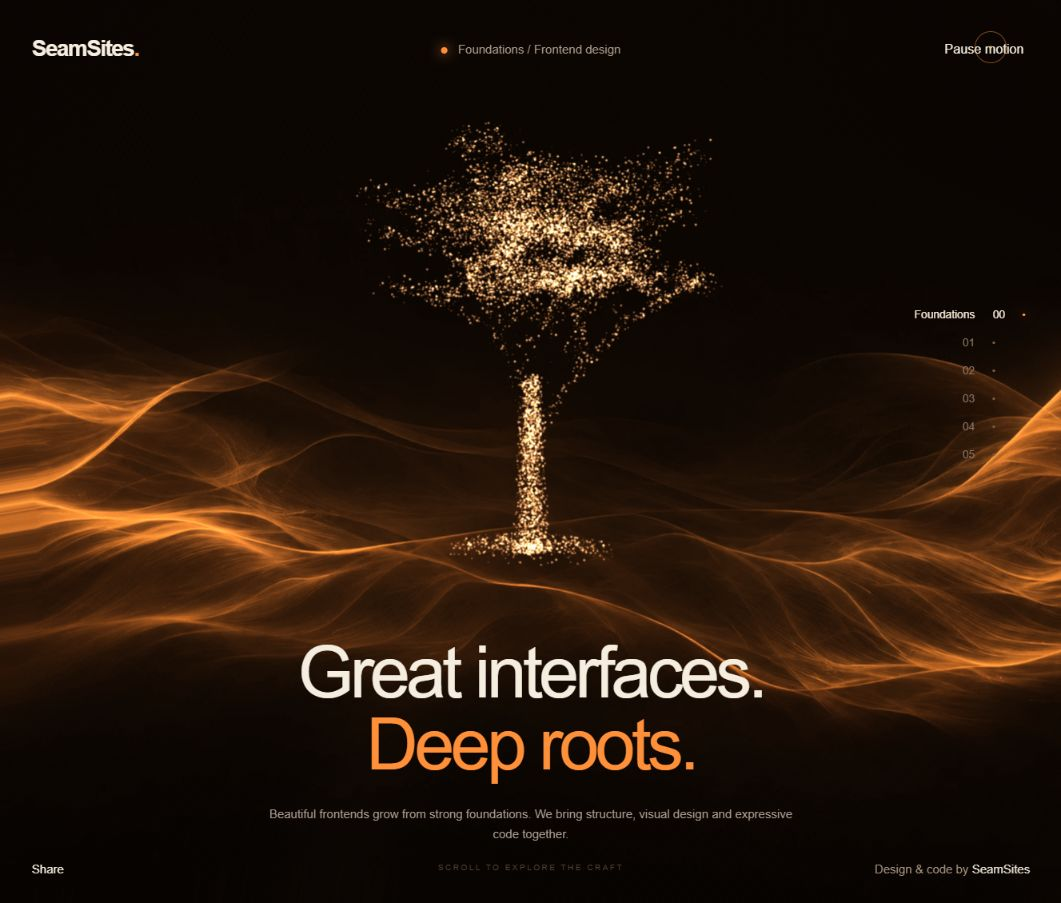
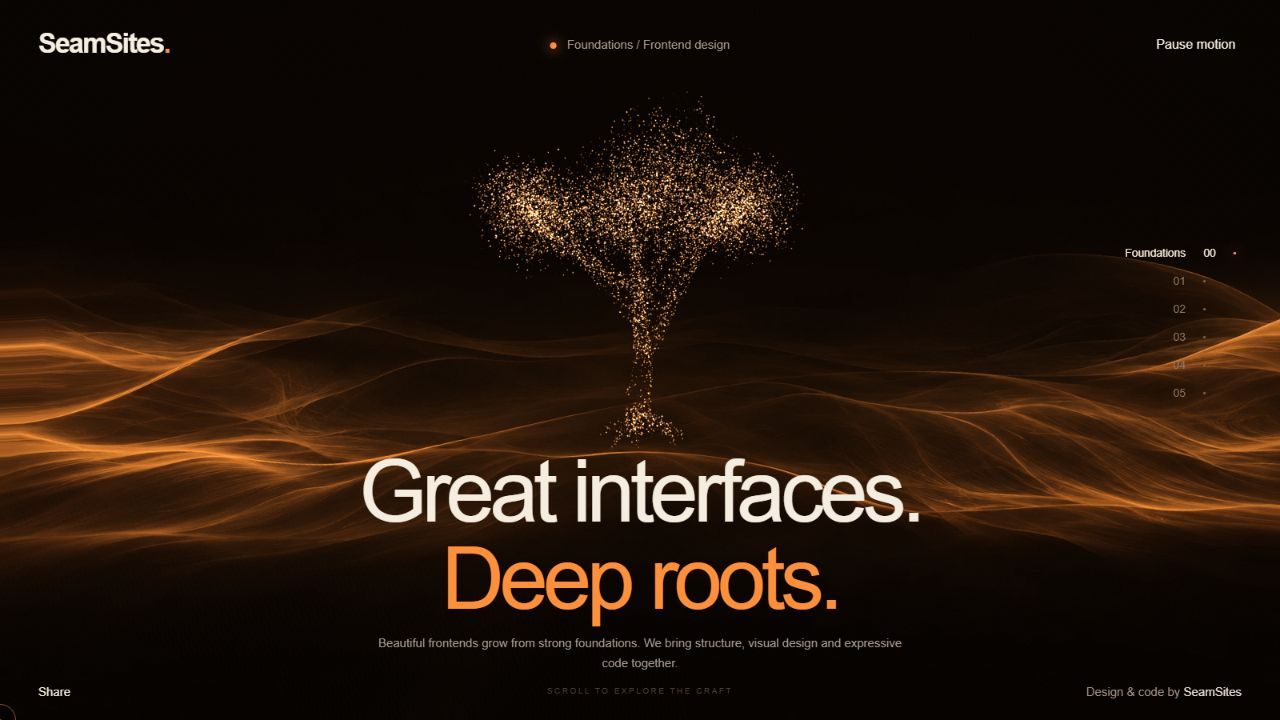
Refine branching oak silhouette and replace rocket with ringed planet

diff --git a/designs/seamsites-motion/index.html b/designs/seamsites-motion/index.html
@@ -2,8 +2,8 @@
 :root{--accent:#ff9f42}.brand{font-size:clamp(22px,2.1vw,33px);letter-spacing:-1.2px}.brand-dot{color:var(--accent)}h1,.intro h1,.ending h1{font-size:clamp(44px,6.8vw,118px);text-align:center;left:5%;right:5%;bottom:13.5%;line-height:1;letter-spacing:-.055em}h1 em{color:var(--accent)}.description,.intro .description{display:block;top:auto;left:50%;transform:translateX(-50%);bottom:6.5%;width:min(540px,75%);text-align:center;font-size:12px;line-height:1.65;color:#ab9d91;margin:0}.hint{bottom:3.5%;font-size:8px;opacity:.6}footer{bottom:3%}.status:before{background:var(--accent);box-shadow:0 0 12px var(--accent)}nav button.active i{color:var(--accent)}nav{top:34%;gap:12px}.replay{bottom:33%;right:5%;font-size:11px}.ending .replay{display:block}.cursor{border-color:var(--accent);opacity:.5}@media(max-width:700px){h1,.intro h1,.ending h1{font-size:clamp(33px,8.8vw,58px);bottom:20%;left:16px;right:16px;line-height:1.05}.description,.intro .description{bottom:10%;width:85%;font-size:11px;left:50%}.hint{display:none!important}.status{font-size:10px}.brand{font-size:25px}.replay{bottom:34%;right:20px}nav{top:28%;gap:13px}nav span{max-width:60px}.ending .description{bottom:10%}}
 </style></head><body><canvas id="ribbons" aria-hidden="true"></canvas><canvas id="points" aria-hidden="true"></canvas><main class="ui intro" id="ui"><header><a class="brand" href="#" aria-label="SeamSites home">SeamSites<span class="brand-dot">.</span></a><span class="status" id="status">Scroll to sink in</span><button id="motion" aria-pressed="false">Pause motion</button></header><nav aria-label="Design chapters" id="nav"></nav><h1 id="title">Great interfaces.<br><em>Deep roots.</em></h1><p class="description" id="description">Beautiful frontends grow from strong foundations. We bring structure, visual design and expressive code together.</p><button class="replay" id="replay">Explore again ↻</button><span class="hint" id="hint">SCROLL TO EXPLORE THE CRAFT</span><footer><button id="share">Share</button><span>Design &amp; code by <strong>SeamSites</strong></span></footer><p id="message" role="status"></p></main><div class="cursor" id="cursor"></div><script src="assets/particle-shapes.js"></script><script>
 const $=s=>document.getElementById(s),calm=matchMedia('(prefers-reduced-motion: reduce)').matches;
-const labels=['Foundations','Craft','Motion','Systems','Flow','Launch'],titles=['Great interfaces.<br><em>Deep roots.</em>','Every detail.<br><em>Precisely crafted.</em>','Make interaction<br><em>feel alive.</em>','One system.<br><em>Infinite possibilities.</em>','Designed to flow.<br><em>Built to perform.</em>','From first pixel<br><em>to live.</em>'];
-const descriptions=['Beautiful frontends grow from strong foundations. We bring structure, visual design and expressive code together.','Considered typography. Purposeful spacing. Responsive components. Interfaces polished from every angle.','Fluid transitions and thoughtful feedback turn everyday actions into memorable experiences.','Reusable components and consistent design tokens create room to build, evolve and scale.','Smooth rendering, accessible controls and responsive layouts. Performance is part of the design.','From an early idea to a working experience. Design, build, test and launch with SeamSites.'];
+const labels=['Foundations','Craft','Motion','Systems','Flow','Horizons'],titles=['Great interfaces.<br><em>Deep roots.</em>','Every detail.<br><em>Precisely crafted.</em>','Make interaction<br><em>feel alive.</em>','One system.<br><em>Infinite possibilities.</em>','Designed to flow.<br><em>Built to perform.</em>','New horizons.<br><em>Built for the web.</em>'];
+const descriptions=['Beautiful frontends grow from strong foundations. We bring structure, visual design and expressive code together.','Considered typography. Purposeful spacing. Responsive components. Interfaces polished from every angle.','Fluid transitions and thoughtful feedback turn everyday actions into memorable experiences.','Reusable components and consistent design tokens create room to build, evolve and scale.','Smooth rendering, accessible controls and responsive layouts. Performance is part of the design.','Explore new possibilities through expressive interfaces, spatial design and thoughtful frontend engineering.'];
 const tones=[[1.,.56,.22],[.28,.80,1.],[1.,.42,.71],[.48,.56,1.],[.30,1.,.72],[1.,.48,.22]];
 let state=0,old=0,start=-9999,changing=false,queued=null,lastWheel=0,clock=0,mx=0,my=0,paused=calm;
 labels.forEach((s,i)=>{$('nav').insertAdjacentHTML('beforeend',`<button aria-label="${s}" aria-pressed="${i===0}" data-n="${i}" class="${i===0?'active':''}"><span>${i===0?s:''}</span><b>0${i}</b><i>•</i></button>`)});
@@ -32,7 +32,7 @@ if(n===4){let rad=(v>0?.55-(v*.25):.55*(1+v));x=Math.cos(u)*rad*r;y=v*.7;z=Math.
 if(n===5){x=Math.cos(u)*Math.sqrt(1-v*v)*(.5+rand()*.22);y=v*.75;z=Math.sin(u)*Math.sqrt(1-v*v)*.5}return[x,y,z]}
 for(let n=0;n<6;n++){let a=new Float32Array(count*3);for(let i=0;i<count;i++)a.set(shape(n,i),i*3);sets.push(window.SAFFRON_SHAPES?Float32Array.from(window.SAFFRON_SHAPES[n]):a)}for(let i=0;i<count;i++)seeds[i]=rand();let buffers=[];
 if(pg){pr=program(pg,`#version 300 es
-precision highp float;in vec3 A,B;in float Q;uniform float T,K,D,S,I;uniform vec3 H;uniform vec2 M;out float V;out vec3 C;void main(){float k=K*K*(3.-2.*K);vec3 p=mix(A,B,k);float burst=sin(K*3.14159);p+=vec3(sin(Q*120.),cos(Q*250.),sin(Q*415.))*burst*.7;p.x+=sin(T*.7+Q*50.)*.015;p.y+=cos(T*.6+Q*40.)*.015;if(I>1.5&&I<2.5){p.z+=abs(p.x)*sin(T*4.)*.4;p.x*=.83+.17*cos(T*4.);}float rot=(I<.5?T*.22:sin(T*.22)*.38)+M.x*.18;mat2 m=mat2(cos(rot),-sin(rot),sin(rot),cos(rot));p.xz=m*p.xz;p*=min(1.,D/.95);float dep=1.6+p.z*.35;p.xy*=1.-burst*.12;vec2 pos=p.xy/dep;pos.x/=D;pos.y+=.25;gl_Position=vec4(pos,0,1);gl_PointSize=(1.3+Q*2.8)*S;V=.3+Q*.7;C=mix(H*.46,mix(H,vec3(1.),.35),pow(Q,2.));}`,`#version 300 es
+precision highp float;in vec3 A,B;in float Q;uniform float T,K,D,S,I;uniform vec3 H;uniform vec2 M;out float V;out vec3 C;void main(){float k=K*K*(3.-2.*K);vec3 p=mix(A,B,k);float burst=sin(K*3.14159);p+=vec3(sin(Q*120.),cos(Q*250.),sin(Q*415.))*burst*.7;p.x+=sin(T*.7+Q*50.)*.015;p.y+=cos(T*.6+Q*40.)*.015;if(I>1.5&&I<2.5){p.z+=abs(p.x)*sin(T*4.)*.4;p.x*=.83+.17*cos(T*4.);}float rot=(I<.5?T*.22:I>4.5?sin(T*.18)*.18:sin(T*.22)*.38)+M.x*.18;mat2 m=mat2(cos(rot),-sin(rot),sin(rot),cos(rot));p.xz=m*p.xz;p*=min(1.,D/.95);float dep=1.6+p.z*.35;p.xy*=1.-burst*.12;vec2 pos=p.xy/dep;pos.x/=D;pos.y+=.25;gl_Position=vec4(pos,0,1);gl_PointSize=(1.3+Q*2.8)*S*(I<.5?.72:1.);V=.3+Q*.7;C=mix(H*.46,mix(H,vec3(1.),.35),pow(Q,2.));}`,`#version 300 es
 precision highp float;in float V;in vec3 C;out vec4 O;void main(){float r=length(gl_PointCoord-.5)*2.;if(r>1.)discard;float a=pow(1.-r,1.7)*V;O=vec4(C*a*1.5,a);}`);for(const u of['T','K','D','S','M','I','H'])pU[u]=pg.getUniformLocation(pr,u);for(let j=0;j<2;j++){let b=pg.createBuffer();buffers.push(b);pg.bindBuffer(pg.ARRAY_BUFFER,b);pg.bufferData(pg.ARRAY_BUFFER,sets[0],pg.DYNAMIC_DRAW);let l=pg.getAttribLocation(pr,j?'B':'A');pg.enableVertexAttribArray(l);pg.vertexAttribPointer(l,3,pg.FLOAT,false,0,0)}let b=pg.createBuffer();pg.bindBuffer(pg.ARRAY_BUFFER,b);pg.bufferData(pg.ARRAY_BUFFER,seeds,pg.STATIC_DRAW);let l=pg.getAttribLocation(pr,'Q');pg.enableVertexAttribArray(l);pg.vertexAttribPointer(l,1,pg.FLOAT,false,0,0);pg.enable(pg.BLEND);pg.blendFunc(pg.ONE,pg.ONE)}
 function resize(){let d=Math.min(devicePixelRatio,1.5);for(const [c,g]of[[back,gl],[front,pg]]){c.width=innerWidth*d;c.height=innerHeight*d;if(g)g.viewport(0,0,c.width,c.height)}}addEventListener('resize',resize);resize();let time=0,last=0,lastState=-1;
 function draw(now){if(!document.hidden&&!paused)time+=Math.min((now-(last||now))/1000,.05);last=now;let k=changing?Math.min(1,(now-start)/1100):1;if(changing&&k===1){changing=false;old=state;if(queued!==null){let q=queued;queued=null;if(q!==state)select(q)}}const blend=k*k*(3-2*k),tone=tones[old].map((v,i)=>v+(tones[state][i]-v)*blend);document.documentElement.style.setProperty('--accent','rgb('+tone.map(v=>Math.round(v*255)).join(',')+')');$('title').style.setProperty('--blur',Math.sin(k*Math.PI)*10+'px');$('title').style.setProperty('--opacity',1-Math.sin(k*Math.PI)*.8);

diff --git a/designs/seamsites-motion/assets/particle-shapes.js b/designs/seamsites-motion/assets/particle-shapes.js
@@ -1,14 +1,19 @@
 // SeamSites: six deterministic, genuinely spatial point clouds.
 (()=>{let seed=741;const random=()=>{seed=(Math.imul(seed,1664525)+1013904223)>>>0;return seed/4294967296},N=16000,TAU=Math.PI*2,clouds=[];
 const mix=(a,b,t)=>a+(b-a)*t,unit=()=>{let z=random()*2-1,a=random()*TAU,r=Math.sqrt(1-z*z);return[Math.cos(a)*r,z,Math.sin(a)*r]};
-// Tree branch skeleton: branching is three-dimensional, not a flat tree outline.
-let branches=[],tips=[];function branch(a,angle,yaw,len,radius,depth){let dir=[Math.sin(angle)*Math.cos(yaw),Math.cos(angle),Math.sin(angle)*Math.sin(yaw)],b=a.map((v,i)=>v+dir[i]*len);branches.push({a,b,r:radius,dir});if(depth===0){tips.push(b);return}let children=depth>3?3:2;for(let j=0;j<children;j++)branch(b,Math.min(1.35,angle*.45+.40+random()*.40),yaw+j*TAU/children+random()*.6,len*(.62+random()*.12),radius*.59,depth-1)}
-branches.push({a:[0,-.94,0],b:[0,-.18,0],r:.08,dir:[0,1,0]});for(let j=0;j<7;j++)branch([0,-.32+j*.075,0],.38+random()*.45,j*2.4,.42+random()*.16,.04,4);
+// Mature oak: curved tapering trunk, buttress roots, layered boughs and leaf clusters.
+let wood=[],leaves=[];const segment=(a,b,r0,r1)=>wood.push({a,b,r0,r1,w:Math.hypot(...b.map((v,j)=>v-a[j]))*(r0+r1)});
+function limb(a,b,r,depth){segment(a,b,r,r*.55);if(!depth){leaves.push({p:b,r:.16+random()*.065});return}let az=Math.atan2(b[2],b[0]);for(let j=0;j<3;j++){let angle=az+(j-1)*.7+(random()-.5)*.35,len=.17+depth*.025,c=[b[0]+Math.cos(angle)*len*.70,b[1]+len*(.35+random()*.55),b[2]+Math.sin(angle)*len*.70];limb(b,c,r*.52,depth-1)}}
+let trunk=[[0,-.76,0],[.025,-.59,-.008],[-.025,-.40,.015],[.015,-.22,0],[0,-.06,.015]];for(let j=0;j<4;j++)segment(trunk[j],trunk[j+1],.071-j*.011,.060-j*.011);
+for(let j=0;j<9;j++){let angle=j*2.39996,start=trunk[2+j%3],rr=.25+random()*.13,end=[Math.cos(angle)*rr,.04+random()*.16,Math.sin(angle)*rr];limb(start,end,.036,2)}
+limb(trunk[4],[.025,.34,.015],.023,2);
+for(let j=0;j<7;j++){let a=j*2.39996;segment([0,-.64,0],[Math.cos(a)*.22,-.77,Math.sin(a)*.22],.039,.005)}
+let totalWood=wood.reduce((a,b)=>a+b.w,0);
 for(let shape=0;shape<6;shape++){let a=new Float32Array(N*3);for(let i=0;i<N;i++){let x=0,y=0,z=0,u=random()*TAU,v=random(),r=random();
-if(shape===0){if(r<.15){let t=random(),rr=(.08-.04*t)*Math.sqrt(random());x=Math.cos(u)*rr;y=-.94+t*.95;z=Math.sin(u)*rr}else if(r<.55){let b=branches[Math.floor(Math.pow(random(),1.6)*branches.length)],t=random(),ang=random()*TAU,rad=b.r*(1-t*.4)*Math.sqrt(random());x=mix(b.a[0],b.b[0],t)+Math.cos(ang)*rad;y=mix(b.a[1],b.b[1],t)+Math.sin(ang)*rad*.3;z=mix(b.a[2],b.b[2],t)+Math.sin(ang)*rad}else if(r<.94){let b=tips[Math.floor(random()*tips.length)],d=unit(),s=Math.pow(random(),.6)*.13;x=b[0]+d[0]*s;y=b[1]+d[1]*s*.7;z=b[2]+d[2]*s}else{let ang=random()*TAU,t=random();x=Math.cos(ang)*t*.42;y=-.94+Math.sin(t*3)*.035;z=Math.sin(ang)*t*.35}x*=1.17;y=(y+.12)*1.05;z*=1.17}
+if(shape===0){if(r<.31){let pick=random()*totalWood,b=wood[0];for(let item of wood){pick-=item.w;if(pick<=0){b=item;break}}let t=random(),d=b.b.map((v,j)=>v-b.a[j]),len=Math.hypot(...d);d=d.map(v=>v/len);let n=Math.abs(d[1])<.9?[0,1,0]:[1,0,0],e=[d[1]*n[2]-d[2]*n[1],d[2]*n[0]-d[0]*n[2],d[0]*n[1]-d[1]*n[0]],el=Math.hypot(...e);e=e.map(v=>v/el);let f=[d[1]*e[2]-d[2]*e[1],d[2]*e[0]-d[0]*e[2],d[0]*e[1]-d[1]*e[0]],rr=mix(b.r0,b.r1,t)*(.8+.2*random());let p=b.a.map((v,j)=>mix(v,b.b[j],t)+rr*(Math.cos(u)*e[j]+Math.sin(u)*f[j]));[x,y,z]=p}else{let c=leaves[Math.floor(random()*leaves.length)],d=unit(),rr=c.r*Math.pow(random(),.45);x=c.p[0]+d[0]*rr;y=c.p[1]-.035+d[1]*rr*1.15;z=c.p[2]+d[2]*rr;let scallop=1+.035*Math.sin(u*11);x*=scallop;z*=scallop}x*=1.02;z*=1.02}
 if(shape===1){let theta=Math.floor(random()*8)*TAU/8,next=theta+TAU/8,t=random(),yy,rad;if(r<.25){yy=mix(.52,.29,v);rad=mix(.26,.53,v)}else if(r<.9){yy=mix(.29,-.65,v);rad=.53*(yy+.65)/.94}else{yy=.52;rad=.26*Math.sqrt(v)}if(i%5===0)t=0;x=mix(Math.cos(theta),Math.cos(next),t)*rad;y=yy+.03;z=mix(Math.sin(theta),Math.sin(next),t)*rad}
 if(shape===2){if(r<.1){x=(random()-.5)*.035;y=(random()-.5)*.86;z=(random()-.5)*.035}else if(r<.14){let side=i%2?1:-1;x=side*(.01+v*.12);y=.39+v*.2;z=0}else{let side=i%2?1:-1,upper=random()<.60,theta=random()*TAU,f=i%6===0?1:Math.sqrt(random());let cx=upper?.30:.24,cy=upper?.23:-.25,rx=upper?.28:.22,ry=upper?.36:.25;let xx=cx+Math.cos(theta)*rx*f,yy=cy+Math.sin(theta)*ry*f;x=side*(xx+(upper?.12:-.08)*(yy-cy));y=yy;z=Math.sin(theta*3)*.022*f;}}
 if(shape===3){let arm=Math.floor(random()*4),rad=Math.pow(random(),.65)*.86,theta=arm*TAU/4+rad*5.7+(random()-.5)*.5;x=Math.cos(theta)*rad;y=(random()-.5)*.06+Math.sin(rad*7)*.015;z=Math.sin(theta)*rad;if(r<.2){let d=unit(),rr=Math.pow(random(),1.7)*.22;x=d[0]*rr;y=d[1]*rr;z=d[2]*rr}let yy=y*Math.cos(.42)-z*Math.sin(.42);z=y*Math.sin(.42)+z*Math.cos(.42);y=yy+.1}
 if(shape===4){let t=u,b=v*TAU,rr=.075*Math.sqrt(random()),cx=(.55+.16*Math.cos(3*t))*Math.cos(2*t),cy=(.55+.16*Math.cos(3*t))*Math.sin(2*t),cz=.22*Math.sin(3*t);x=cx+Math.cos(b)*rr;y=cy+Math.sin(b)*rr;z=cz+(random()-.5)*.1}
-if(shape===5){let section=r;if(section<.6){y=mix(-.36,.70,v);let rr=.18*Math.sqrt(Math.max(0,1-Math.pow((y-.05)/.65,2)));x=Math.cos(u)*rr;z=Math.sin(u)*rr}else if(section<.82){let side=i%3,t=random(),rr=.18+t*.25,ang=side*TAU/3;x=Math.cos(ang)*rr;y=-.15-t*.37;z=Math.sin(ang)*rr}else{let rr=(.06+v*.11)*(1-v*.65);x=Math.cos(u)*rr;y=-.36-v*.55;z=Math.sin(u)*rr}x+=y*.14}
+if(shape===5){if(r<.64){let d=unit(),latitude=Math.asin(d[1]),bands=1+.018*Math.sin(latitude*25+Math.sin(u*3));x=d[0]*.40*bands;y=d[1]*.40;z=d[2]*.40*bands}else{let rr=r<.89?.56+v*.17:.77+v*.07;let xx=Math.cos(u)*rr,zz=Math.sin(u)*rr,yy=(random()-.5)*.008;x=xx;y=yy*Math.cos(.55)-zz*Math.sin(.55);z=yy*Math.sin(.55)+zz*Math.cos(.55);let xx2=x;x=xx2*Math.cos(.24)-y*Math.sin(.24);y=xx2*Math.sin(.24)+y*Math.cos(.24);}}
 a[i*3]=x;a[i*3+1]=y;a[i*3+2]=z}if(shape===0){let lo=Infinity,hi=-Infinity;for(let q=1;q<a.length;q+=3){lo=Math.min(lo,a[q]);hi=Math.max(hi,a[q])}let scale=1.5/(hi-lo),mid=(hi+lo)/2;for(let q=0;q<a.length;q+=3){a[q]*=scale;a[q+1]=(a[q+1]-mid)*scale;a[q+2]*=scale}}clouds.push(a)}window.SAFFRON_SHAPES=clouds})();

diff --git a/designs/seamsites-motion/README.md b/designs/seamsites-motion/README.md
@@ -1,6 +1,6 @@
 # SeamSites · Motion
 
-前端设计主题，六段 WebGL 粒子交互：大树、钻石、蝴蝶、星系、环结、火箭。大树自动 3D 旋转，背景持续流动，切换带扩散光波、粒子散开重组和主题色渐变。
+前端设计主题，六段 WebGL 粒子交互：大树、钻石、蝴蝶、星系、环结、带星环的星球。大树自动 3D 旋转，背景持续流动，切换带扩散光波、粒子散开重组和主题色渐变。
 
 [在线演示](https://saffron-webgl-recreation.vercel.app) · [英文提示词](prompt.md)
 
